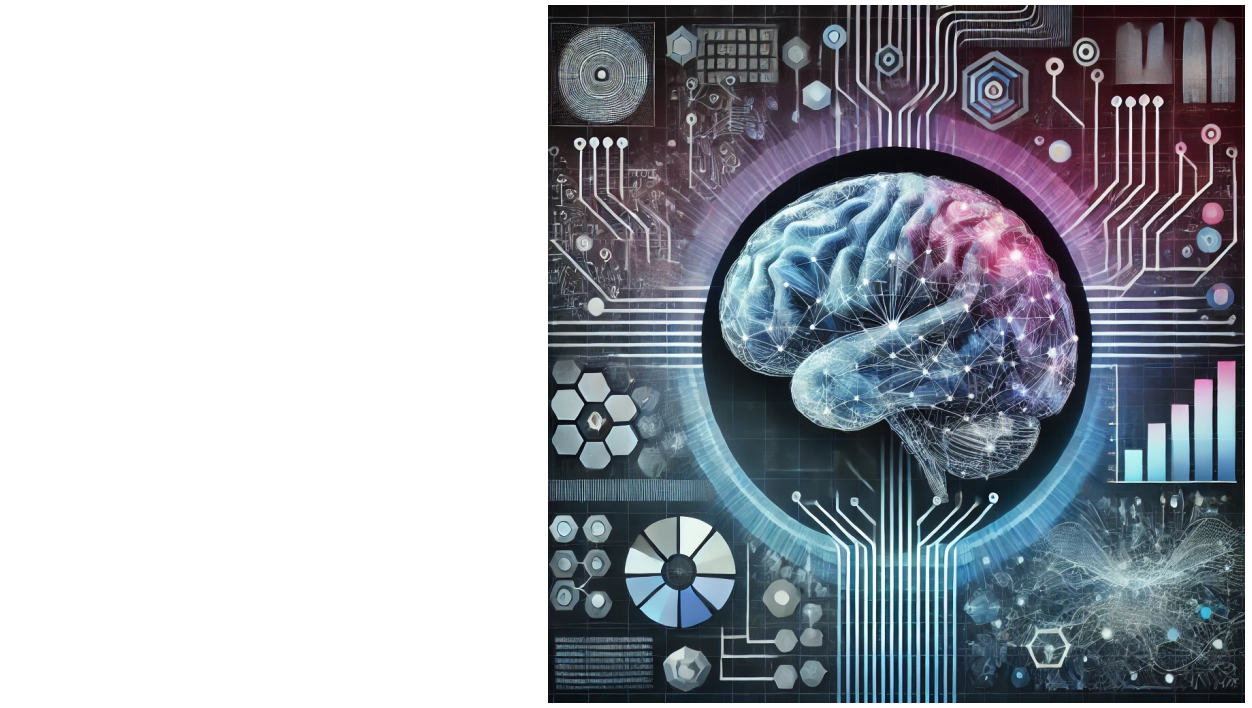
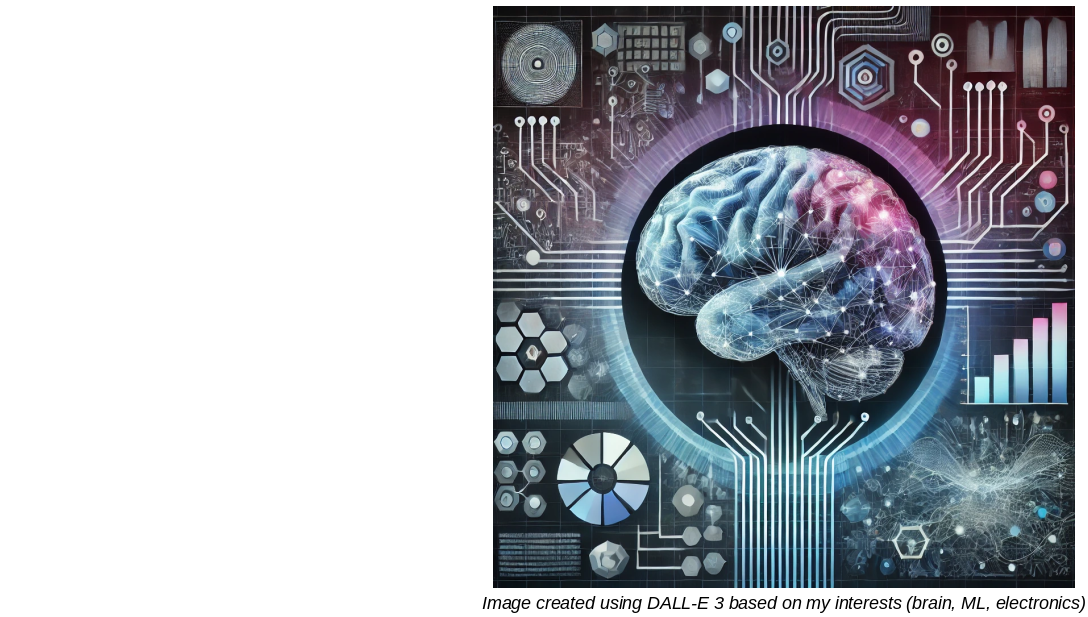
update intro pic

diff --git a/index.html b/index.html
@@ -152,7 +152,8 @@
                 </tbody>
                 </table>
         </p>
-        <div><img src='Images/intro_pic.png' width='50%'  alt='Pic generated by Dall E about my work description'>
+        <div><img src='Images/intro_pic.png' width='70%'  alt='Pic generated by Dall E about my work description'>
+        </div>
         </div>
     </div>
 
